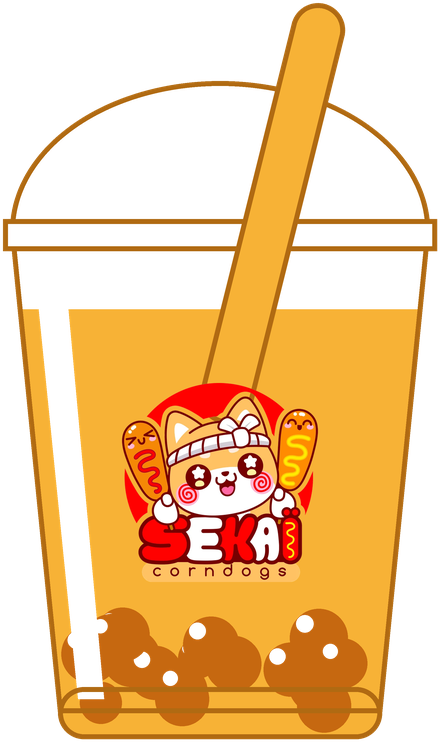
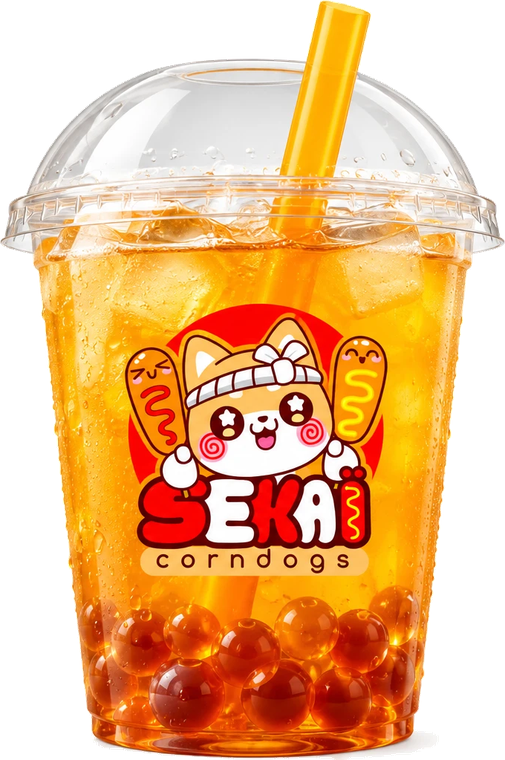
borne: les 3 sirops bubble tea en photoreel
Le gerant a repris mon dessin de gobelet et l'a refait en photoreel. Il
en a envoye deux (mangue et pastheque) ; la peche est synthetisee depuis
l'orange par un decalage de teinte limite a la boisson, le rouge du logo
Sekai etant protege par un masque de saturation.

Les fichiers reprennent les noms exacts des versions dessinees, donc
aucun recablage dans PHOTOS_OPTIONS. Originaux archives dans
borne/photos-recues/.

Verifie en capture : les trois gobelets s'affichent dans
CHOIX DU SIROP MENU, logo rouge intact sur les trois.

Claude-Session: https://claude.ai/code/session_013hnANrWzff71jJyzrU69Fg

diff --git a/borne/src/App.tsx b/borne/src/App.tsx
@@ -87,9 +87,10 @@ const PHOTOS_OPTIONS: Record<string, string> = {
   "LITCHI": "perle-litchi.png",
   "MANGUE": "perle-mangue.png",
   "PASSION": "perle-passion.png",
-  // Le sirop du menu Bubble Dogs. Gobelet DESSINÉ (il n'existe aucune photo
-  // des trois parfums) : couvercle bombé, paille, perles au fond et le logo
-  // collé dessus, décliné dans la couleur du parfum.
+  // Le sirop du menu Bubble Dogs. Visuels fournis par le gérant le 22/10/2026
+  // — il a repris mon dessin et l'a refait en photoréaliste, bien mieux.
+  // ⚠ Il n'en a envoyé que DEUX : la pêche est l'orange glissé vers le rose,
+  // en protégeant le rouge du logo, qui aurait viré avec la boisson.
   "MANGUE / MANGO": "bubble-mangue.png",
   "PECHE": "bubble-peche.png",
   "PASTHEQUE / WATERMELON": "bubble-pasteque.png",
